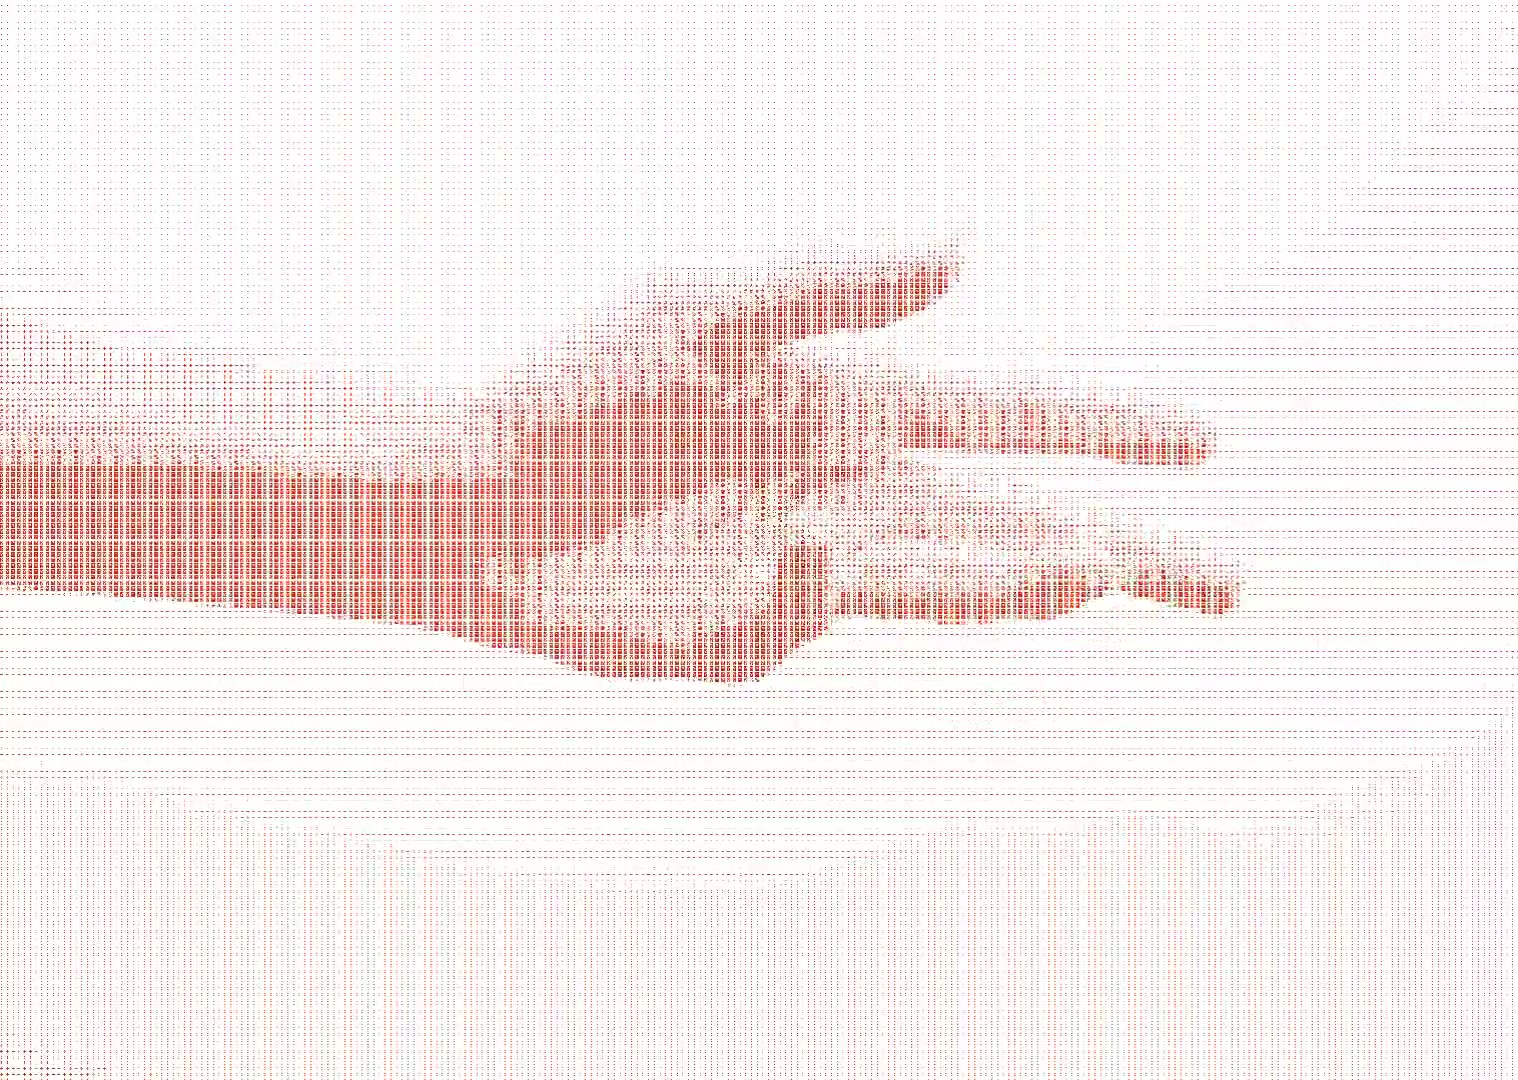
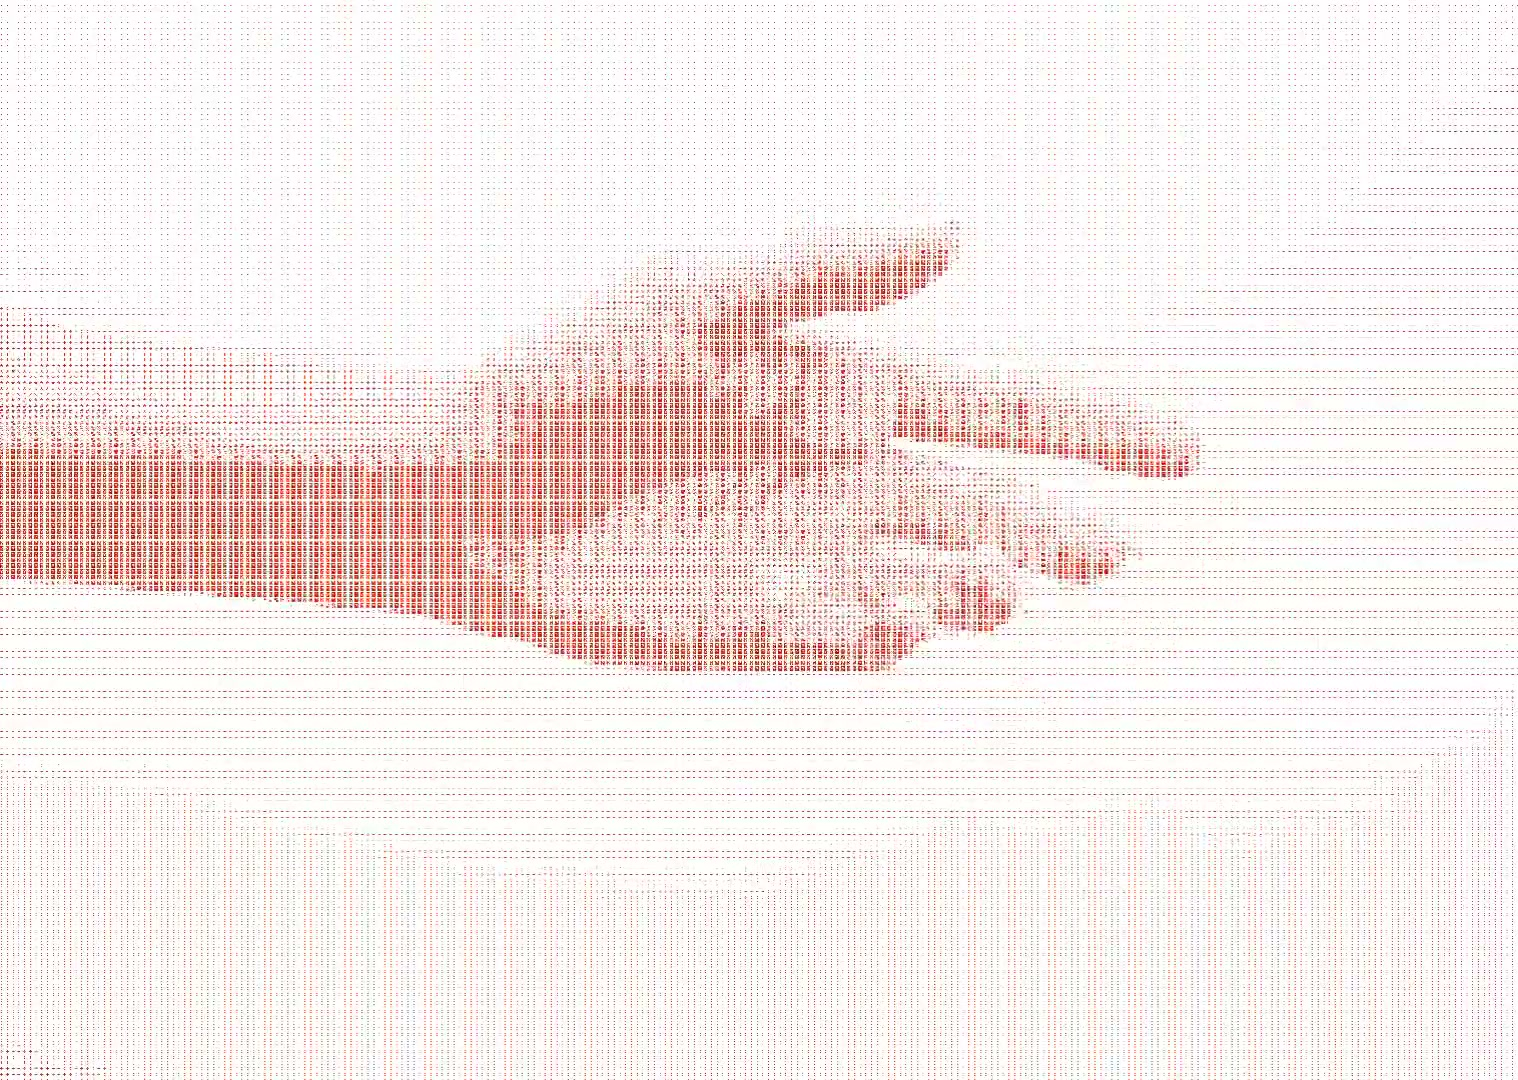
feat: visual fixes batch — hero, footer, services, CTA
- Hero: reduce dot-grid opacity 10%→6% + add CSS mask fade-out to
  prevent visible gray rectangle on left side
- Footer: replace generic dot-pattern with enlarged SPAIK Logomark.svg
  half-visible at bottom-right (brand signature element)
- CTA: re-extract poster at 3s to avoid orange first frame
- Services: replace generic dot-grid SVG with actual SPAIK brand icons
  (Inspiration, Kickstart, Fundamentals) in orange from branding kit

Changed region(s): [[0.0, 0.2139, 0.836, 0.6417], [0.8669, 0.7333, 0.8979, 0.7639], [0.1238, 0.3056, 0.1548, 0.3361]]

diff --git a/src/components/ServicesSection.tsx b/src/components/ServicesSection.tsx
@@ -2,6 +2,7 @@
 
 import { useTranslations } from "next-intl";
 import { Check } from "lucide-react";
+import Image from "next/image";
 
 import { BOOK_CALL_URL } from "@/lib/constants";
 
@@ -9,12 +10,14 @@ interface ServiceCardProps {
   translationPrefix: string;
   readMoreUrl: string;
   highlighted?: boolean;
+  icon: string;
 }
 
 function ServiceCard({
   translationPrefix,
   readMoreUrl,
   highlighted = false,
+  icon,
 }: ServiceCardProps) {
   const t = useTranslations("services");
 
@@ -32,18 +35,10 @@ function ServiceCard({
           : "border border-spaik-clay-light"
       }`}
     >
-      {/* Decorative dot grid */}
-      <svg width="24" height="24" viewBox="0 0 24 24" fill="none" className="absolute top-6 right-6 opacity-40">
-        <circle cx="4" cy="4" r="1.5" fill="#ff7150" />
-        <circle cx="12" cy="4" r="1.5" fill="#ff7150" />
-        <circle cx="20" cy="4" r="1.5" fill="#ff7150" />
-        <circle cx="4" cy="12" r="1.5" fill="#ff7150" />
-        <circle cx="12" cy="12" r="1.5" fill="#ff7150" />
-        <circle cx="20" cy="12" r="1.5" fill="#ff7150" />
-        <circle cx="4" cy="20" r="1.5" fill="#ff7150" />
-        <circle cx="12" cy="20" r="1.5" fill="#ff7150" />
-        <circle cx="20" cy="20" r="1.5" fill="#ff7150" />
-      </svg>
+      {/* Brand icon — top-right */}
+      <div className="absolute top-6 right-6" style={{ width: 36, height: 36 }}>
+        <Image src={icon} alt="" width={36} height={36} className="opacity-70" style={{ filter: "brightness(0) saturate(100%) invert(52%) sepia(72%) saturate(1632%) hue-rotate(334deg) brightness(101%) contrast(101%)" }} />
+      </div>
 
       {highlighted && (
         <span className="absolute -top-3 left-6 rounded-full bg-spaik-orange px-3 py-1 text-xs font-medium text-white">
@@ -153,15 +148,18 @@ export function ServicesSection() {
           <ServiceCard
             translationPrefix="inspiration"
             readMoreUrl="https://inspiratie.spaik.io/"
+            icon="/images/icon-inspiration.svg"
           />
           <ServiceCard
             translationPrefix="kickstart"
             readMoreUrl="https://kickstart.spaik.io/"
             highlighted
+            icon="/images/icon-kickstart.svg"
           />
           <ServiceCard
             translationPrefix="fundamentals"
             readMoreUrl="https://fundamentals.spaik.io/"
+            icon="/images/icon-fundamentals.svg"
           />
         </div>
 

diff --git a/src/components/Footer.tsx b/src/components/Footer.tsx
@@ -104,18 +104,18 @@ export function Footer() {
           </div>
         </div>
 
-        {/* Decorative dot-grid texture — bottom-right corner */}
+        {/* Enlarged SPAIK logomark — half-visible at bottom-right */}
         <div
-          className="absolute bottom-0 right-0 pointer-events-none"
-          style={{ width: "25%", height: "55%", zIndex: 0, opacity: 0.10 }}
+          className="absolute pointer-events-none"
+          style={{ bottom: "-40%", right: "-5%", width: 320, height: 320, opacity: 0.06, zIndex: 0 }}
           aria-hidden="true"
         >
           <Image
-            src="/images/product-dot-pattern.png"
+            src="/images/Logomark.svg"
             alt=""
             fill
-            className="object-cover object-bottom-right"
-            sizes="25vw"
+            className="object-contain"
+            sizes="320px"
           />
         </div>
 

diff --git a/src/components/HeroSection.tsx b/src/components/HeroSection.tsx
@@ -12,12 +12,13 @@ export function HeroSection() {
       {/* Decorative dot-grid pattern — left side, behind hero text */}
       <div
         className="pointer-events-none absolute left-0 top-0 h-full"
-        style={{ width: "45%", opacity: 0.10, zIndex: 0 }}
+        style={{ width: "45%", opacity: 0.06, zIndex: 0 }}
       >
         <img
           src="/images/hero-graphic.png"
           alt=""
           className="h-full w-full object-cover object-right"
+          style={{ maskImage: "linear-gradient(to right, black 40%, transparent 100%)", WebkitMaskImage: "linear-gradient(to right, black 40%, transparent 100%)" }}
         />
       </div>
 
